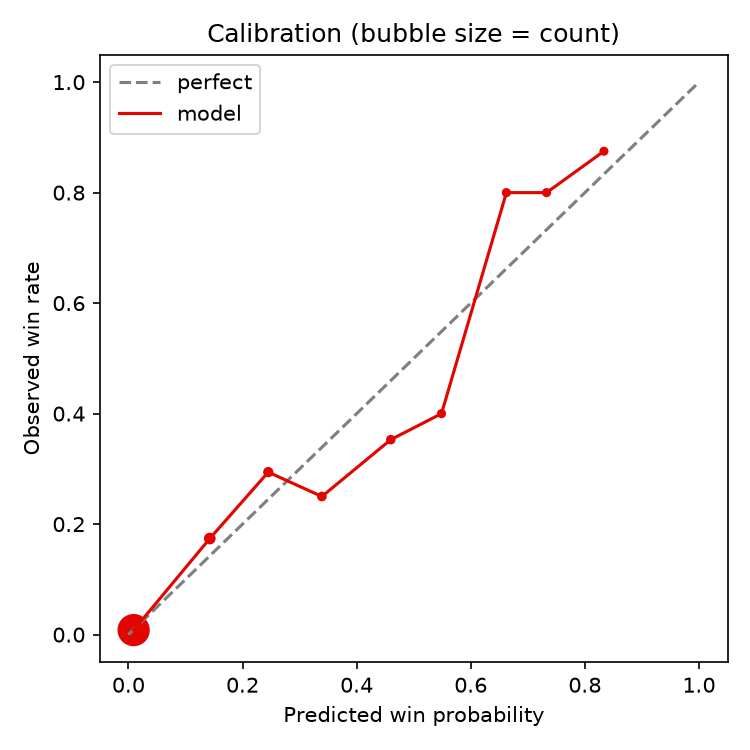
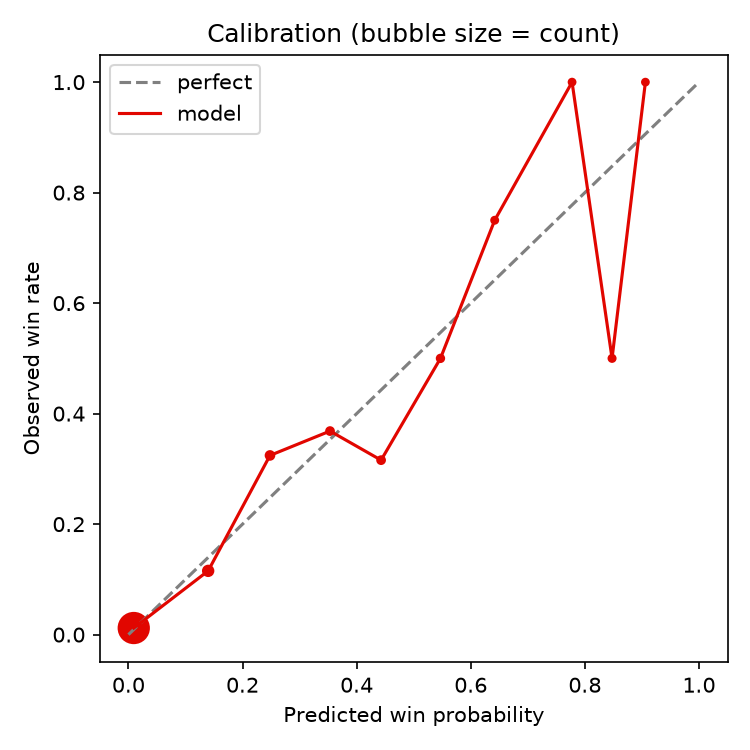
docs: 7a results
Claude-Session: https://claude.ai/code/session_01YJeHtrUFY8CEqTesftaBuB

diff --git a/README.md b/README.md
@@ -124,7 +124,9 @@ all for the constructor, because the car cancels out. Ratings regress toward 150
 of each season, constructors harder than drivers and harder still in rule-change years.
 See [docs/elo.md](docs/elo.md).
 
-**One simulated race.** A driver's performance is `driver + constructor + grid_bonus * (n - grid)`
+**One simulated race.** A driver's performance is
+`driver + constructor + grid_bonus * n / grid ** grid_shape` (concave since Phase 7a: pole
+versus P2 is worth half the full bonus at `grid_shape = 1`, P19 versus P20 almost nothing)
 plus one noise draw shared by both cars of the team and one private to the driver. Each driver
 is retired with their own DNF probability and sent to the back; survivors are sorted by
 performance. See [docs/monte-carlo.md](docs/monte-carlo.md).
@@ -245,6 +247,53 @@ the signal, and a 20-race window of places gained and accidents is too noisy to 
 
 ![Calibration](docs/results/backtest-calibration.png)
 
+### Phase 7a: concave grid and honest metrics
+
+The 2026 season showed that a linear grid term cannot price an upset: with each slot worth 25
+rating points, Antonelli's Monza win from P19 was given 0.01% (log loss 9.2 in one race). The
+grid term is now `grid_bonus * n / grid ** grid_shape`, concave, so the front rows matter a lot
+and the back rows barely at all. Re-tuning on 2015 to 2023 with `grid_shape` in the search space
+(`f1pred tune --train 2015-2023 --test 2024-2026 --passes 2 --runs 1500`) chose
+`grid_shape = 0.75`, `grid_bonus = 8`, `k_driver = 64`, `k_constructor = 48`,
+`teammate_weight = 3`, `regress_driver = 0.2`, `regress_constructor = 0.1`,
+`shrink_wet = shrink_track = 32`, `wet_dnf_factor = 1.0`, `shrink_profile = 2` and
+`risk_dnf_scale = 0.25`; training log loss fell from 1.2034 (linear term) to 1.1522. Monza 2026
+now gets a 6.0% win chance for Antonelli (log loss 2.8), and the worst race of 2024 to 2026 is
+Miami 2024 at 5.6, under the spec's ceiling of 7.
+
+Every score below carries a 90% bootstrap interval (1,000 resamples of the season's races;
+[docs/metrics.md](docs/metrics.md)). The folds are rolling-origin: 2024 to 2026 were never seen
+by the tuner, and `backtest --rolling 2024-2026` replays the ratings per fold. RPS is the ranked
+probability score over each driver's full finishing-position distribution (lower is better;
+flat is about 0.16); top-3 is the log loss of the exact podium set (uniform is 7.0).
+
+| Fold | Races | Log loss model | Log loss pole | RPS model | RPS pole | Top-3 model | Top-3 pole |
+|-----:|------:|:---------------|:--------------|:----------|:---------|------------:|-----------:|
+| 2024 | 24 | 1.69 [1.24, 2.17] | 2.89 [2.03, 3.74] | 0.098 [0.089, 0.108] | 0.123 [0.110, 0.137] | 3.78 | 7.31 |
+| 2025 | 24 | 1.20 [1.00, 1.42] | 1.61 [0.96, 2.46] | 0.109 [0.100, 0.118] | 0.132 [0.114, 0.149] | 3.33 | 5.79 |
+| 2026 | 14 | 1.69 [1.32, 2.03] | 1.98 [0.85, 3.10] | 0.098 [0.087, 0.110] | 0.116 [0.102, 0.132] | 3.91 | 7.26 |
+
+Over all 62 races (`backtest --seasons 2024-2026 --bootstrap 1000`): winner log loss 1.50
+[1.27, 1.74] against the pole baseline's 2.19 [1.61, 2.69]; RPS 0.102 [0.096, 0.109] against
+0.125 [0.115, 0.134]; expected calibration error 0.011 for win probabilities and 0.023 for
+podium probabilities; sharpness (mean top win probability) 0.50. The model beats the pole
+baseline on winner log loss in every fold, and its interval excludes the pole number in 2024 and
+2025 but not in 2026 (14 races). It beats pole on RPS in every fold with non-overlapping
+intervals, and on the podium set by 2.5 to 3.5 nats.
+
+Read the intervals before the means: a full point of 2024 winner log loss is the width of the
+interval, so the difference between this table and the Phase 6 one (1.74, 1.44 for 2024 and
+2025) is inside the noise. What is not noise is the floor: no race can cost more than about 6
+any more, and the same is true on the untuned defaults.
+
+Ablation on the same 62 races with the Phase 7a parameters, winner log loss (pre-race rain):
+base 1.594, weather 1.537, track 1.504, full 1.494, profile (the default) 1.500. The ordering
+is the Phase 6 one and every gap is inside the intervals above.
+
+The remaining structural limits, slow adaptation to a breakout season and no use of qualifying
+lap times, are the subject of Phase 7b, the Bayesian pace model
+([docs/superpowers/specs/2026-09-16-accuracy-upgrade-design.md](docs/superpowers/specs/2026-09-16-accuracy-upgrade-design.md)).
+
 ## Install and usage
 
 ```bash
@@ -257,7 +306,9 @@ uv run f1pred backtest --seasons 2023-2025         # score vs baselines; saves o
 uv run f1pred profile                              # aggression, risk and form for the drivers on the current grid
 uv run f1pred backtest --ablate                    # also score with and without weather, track type and the driver profile; saves outputs/ablation.csv
 uv run f1pred backtest --ablate --observed-rain    # same, but the weather variants see the race-day rainfall (an upper bound)
-uv run f1pred tune                                 # coordinate descent on 2015-2022, held-out report, writes f1pred/tuned.json
+uv run f1pred backtest --seasons 2024-2026 --bootstrap 1000   # add 90% bootstrap intervals; saves outputs/backtest_intervals.csv
+uv run f1pred backtest --rolling 2024-2026 [--tune]           # rolling-origin folds (optionally re-tuned per fold); saves outputs/rolling.csv
+uv run f1pred tune --train 2015-2023 --test 2024-2026         # coordinate descent, held-out report, writes f1pred/tuned.json
 ```
 
 Simulation commands take `--runs N`, `--seed N` and `--no-grid`; `predict` takes
@@ -269,15 +320,19 @@ new races. It also downloads the 25 MB `lap_times.csv` and keeps only the lap-1 
 
 ## Roadmap
 
-All five planned phases are done: data and the driver-race table (1), Elo ratings (2), the
-race and season Monte Carlo with the backtest and tuner (3), weather and track type (4), and
-the driver profile (5). Candidate next steps, none scheduled:
+Done: data and the driver-race table (1), Elo ratings (2), the race and season Monte Carlo with
+the backtest and tuner (3), weather and track type (4), the driver profile (5), the review fixes
+(6) and the concave grid with distribution-aware metrics and intervals (7a). Next, per the
+Phase 7 plan in `docs/superpowers/plans/`:
 
-- A qualifying-pace signal from FastF1 lap times, so the model sees car speed before the race
-  rather than only where it started.
-- Ratings that update inside a simulated season, so title odds reflect form swings and upgrades
-  instead of holding every rating fixed to the end of the year.
-- A small Streamlit dashboard over the cached outputs.
+- 7b: a Bayesian hierarchical Plackett–Luce pace model (NumPyro) with a qualifying lap-gap
+  likelihood, season-level driver effects and a DNF hazard, feeding posterior samples into the
+  existing simulation.
+- 7c: the walk-forward posterior backtest on the DGX Spark and the comparison against Phase 6
+  with intervals.
+
+Unscheduled: ratings that update inside a simulated season, and a small Streamlit dashboard
+over the cached outputs.
 
 ## Credits
 
@@ -295,8 +350,21 @@ reliability layer, shared team noise, leakage-safe backtests).
 
 ## Changelog
 
-Fixes from the post-Phase-5 code review (Phase 6); every number above was regenerated after
-them.
+Phase 7a (concave grid and honest metrics):
+
+- The grid term is `grid_bonus * n / grid ** grid_shape` instead of `grid_bonus * (n - grid)`;
+  `grid_shape` is tuned (0.75) and the no-grid fallback folds the term's actual spread into the
+  driver noise. Monza 2026 moves from a 0.01% to a 6% win chance for the winner.
+- New scores per race: ranked probability score over the finishing-position distribution and
+  the log loss of the exact podium set, for the model and both baselines; expected calibration
+  error and sharpness per run. `backtest --bootstrap R` adds 90% intervals,
+  `backtest --rolling 2024-2026 [--tune]` scores folds the tuner never saw
+  ([docs/metrics.md](docs/metrics.md)).
+- `tune` searches `grid_shape` and a smaller `grid_bonus` range; the objective can be any race
+  score column.
+
+Fixes from the post-Phase-5 code review (Phase 6); every number in the Phase 6 tables was
+regenerated after them.
 
 - Finishers are classified from `positionText`, not `position`. From 2025 the upstream CSV
   fills `position` with `positionOrder` for retirements (`positionText` is `R`, `W`, `D`, ...),

diff --git a/docs/monte-carlo.md b/docs/monte-carlo.md
@@ -11,12 +11,16 @@ Each entrant gets a performance number for this run:
 
 ```text
 performance = driver_rating + constructor_rating
-            + grid_bonus * (n_entrants - grid)
+            + grid_bonus * n_entrants / grid ** grid_shape
             + team_noise + driver_noise
 ```
 
 The first two terms are the Elo strength. The grid term rewards starting near the front, since
-track position is worth real time and overtaking is hard. Then two random draws are added.
+track position is worth real time and overtaking is hard. Since Phase 7a it is concave rather
+than linear: at `grid_shape = 1` pole is worth `grid_bonus * n`, P2 half of that and P20 one
+twentieth, so the front rows matter a lot and the back rows barely at all. A linear term had
+priced a win from P19 at zero (Monza 2026, log loss 9.2); the concave term gives it a few
+percent. Then two random draws are added.
 
 `team_noise` is one draw per constructor, shared by both of its cars. When a team brings an
 upgrade that works, or misjudges the setup window, both cars move together. Giving teammates
@@ -46,6 +50,7 @@ it takes well under a second.
 ## Running without a grid
 
 Before qualifying the grid is unknown. In `--no-grid` mode the grid term is dropped and its
-spread is folded into the driver noise: a uniform draw over `n` grid slots has standard
-deviation `n / sqrt(12)`, so `sigma_driver` becomes `sqrt(sigma_driver^2 + (grid_bonus * n)^2 / 12)`.
-The forecast gets wider, which is the honest thing to do when you know less.
+spread is folded into the driver noise: with the grid slot a uniform draw over `1..n`, the
+grid term has standard deviation `sigma_grid = std(grid_term(1..n))`, so `sigma_driver` becomes
+`sqrt(sigma_driver^2 + sigma_grid^2)`. The forecast gets wider, which is the honest thing to do
+when you know less.
